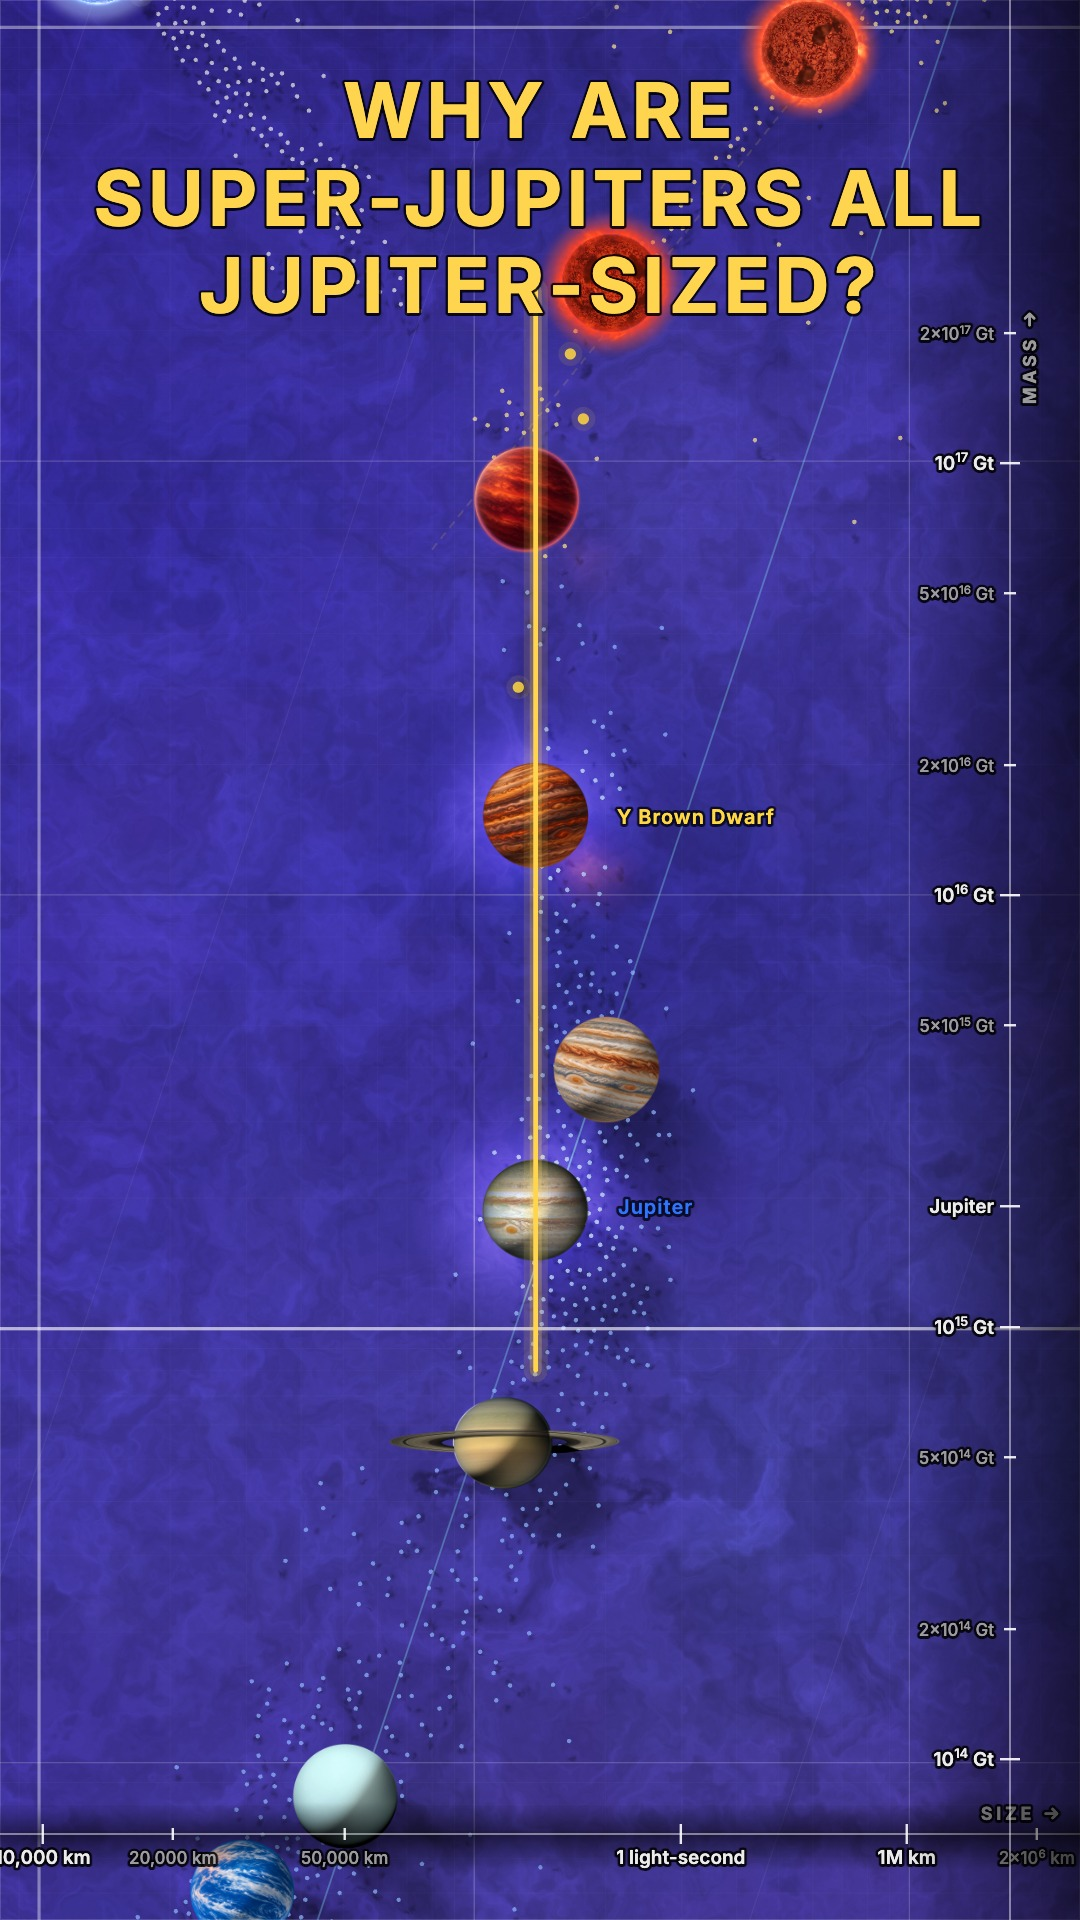
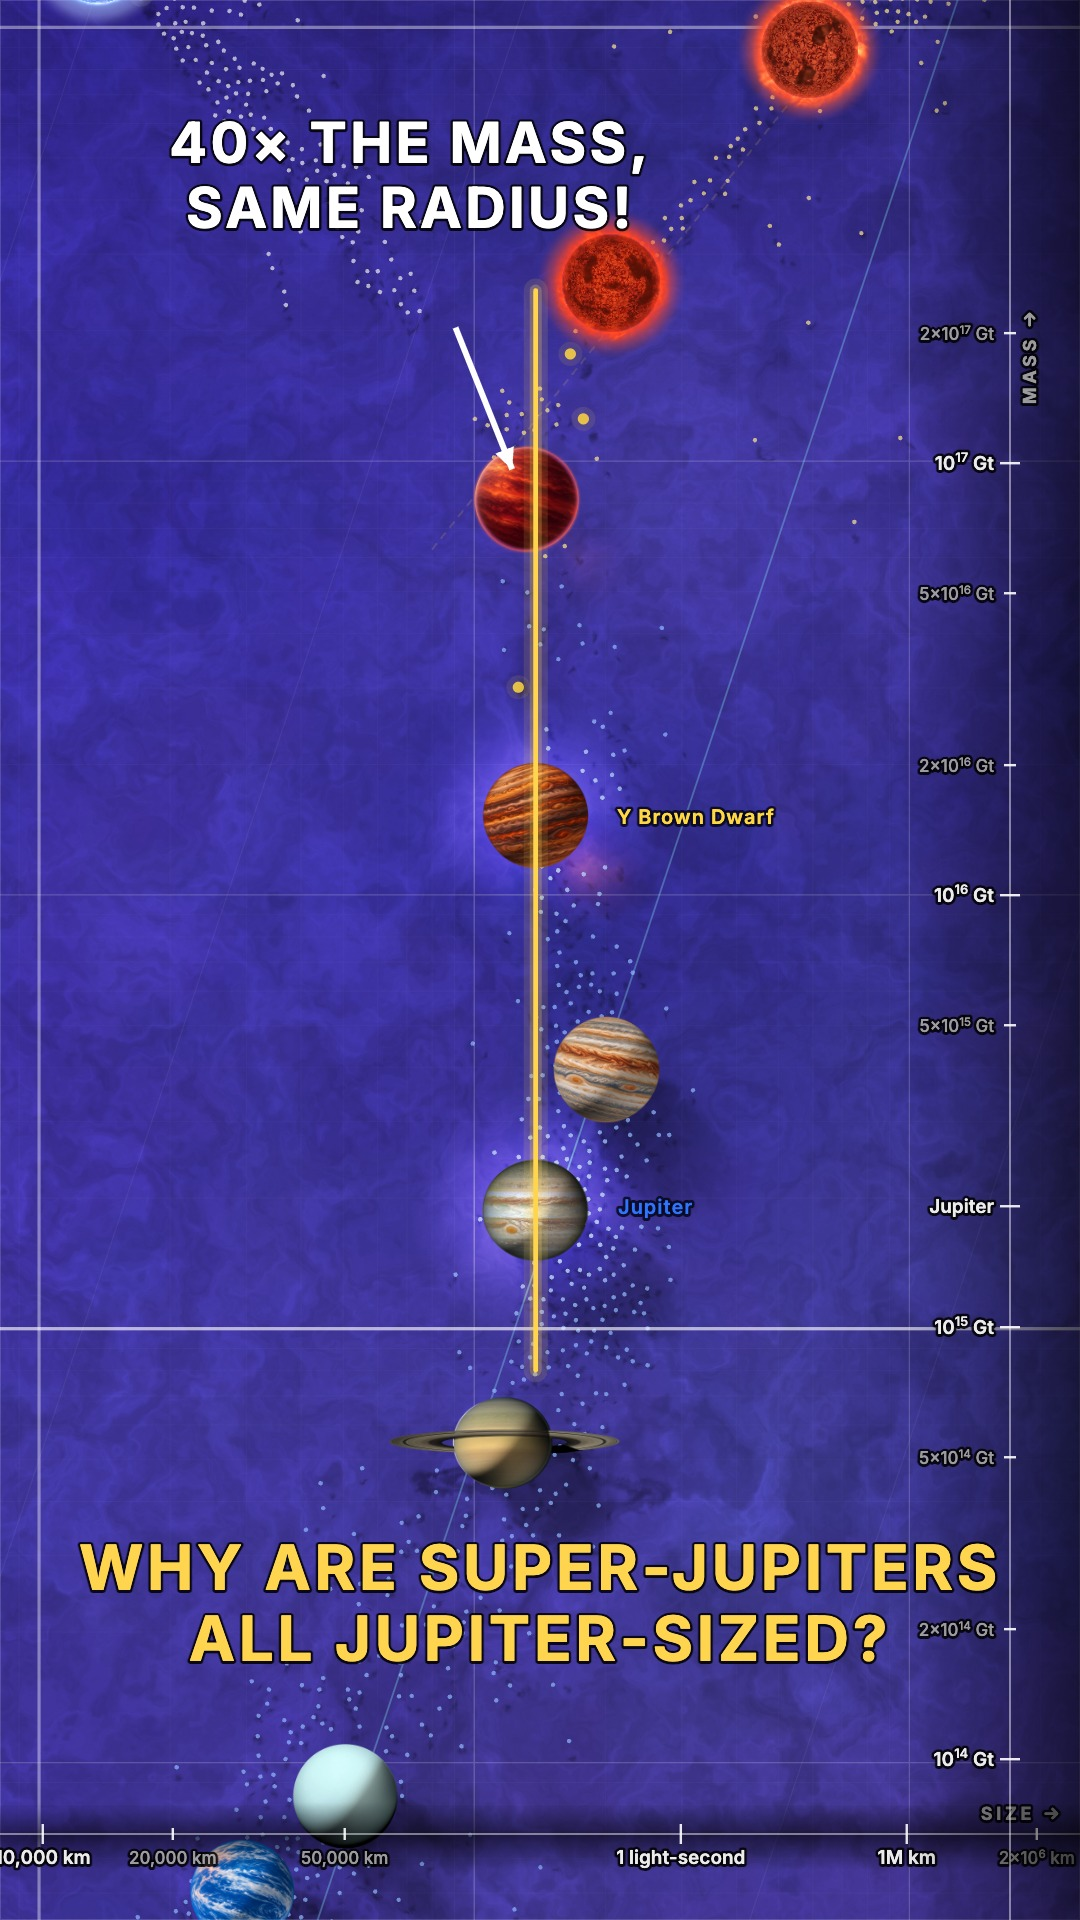
Short 2b's thumbnail: the question at the bottom, "40× the mass, same radius!" with an arrow at the top (the author, 2026-11-03)
The arrow points at the L brown dwarf, the line's heaviest: 40× Jupiter's mass on the chart
(logM 31.9 against 30.28), its radius within 5%. The author's "80×" is the brown dwarfs' upper limit,
past what this line shows.

Changed region(s): [[0.0917, 0.0312, 0.9167, 0.2188], [0.0611, 0.7812, 0.9167, 0.875], [0.4583, 0.2188, 0.4889, 0.25]]

diff --git a/src/narration-scenes/short-02b-planets.js b/src/narration-scenes/short-02b-planets.js
@@ -8,11 +8,14 @@
 const AX = "#e8ecff";
 export default {
   // the YouTube thumbnail (scripts/narration-poster.mjs): the super-Jupiters' vertical line, Jupiter
-  // at its foot, and "Why are super-Jupiters all Jupiter-sized?": the size, not the mass (the author, 2026-11-03)
+  // at its foot, "Why are super-Jupiters all Jupiter-sized?" below (the size, not the mass), and an arrow
+  // to the L brown dwarf, the line's heaviest (the author, 2026-11-03; ~40× Jupiter's mass on the chart, 31.9 against 30.28)
   poster: { at: 3, cues: [{ t: 0, cam: { r: 9.85, m: 30.85, span: 2.5 }, dur: 0.1, drift: 0, hl: [
     { trend: [[9.84, 29.9], [9.84, 32.4]], color: "#ffd54f", draw: 0.01 },
     { obj: "Jupiter", label: "Jupiter", place: "left" }, { obj: "Y Brown Dwarf", label: false },
-    { text: "Why are\nsuper-Jupiters all\nJupiter-sized?", at: [9.85, 32.55], size: 38, color: "#ffd54f", instant: true }] }] },
+    { text: "40× the mass,\nsame radius!", at: [9.55, 32.62], size: 28, color: "#ffffff", instant: true },
+    { arrow: true, from: { r: 9.62, m: 32.4 }, to: { obj: "L Brown Dwarf" }, solid: true, width: 3, color: "#ffffff", draw: 0.01 },
+    { text: "Why are super-Jupiters\nall Jupiter-sized?", at: [9.85, 29.31], size: 31, color: "#ffd54f", instant: true }] }] },
   cues: [
     { at: "plot everything by mass", offset: -0.4, cam: { r: 6.0, m: 18.4, span: 9 }, dur: 0.9, units: true, unitsUntil: "potato shapes into",
       hl: [
